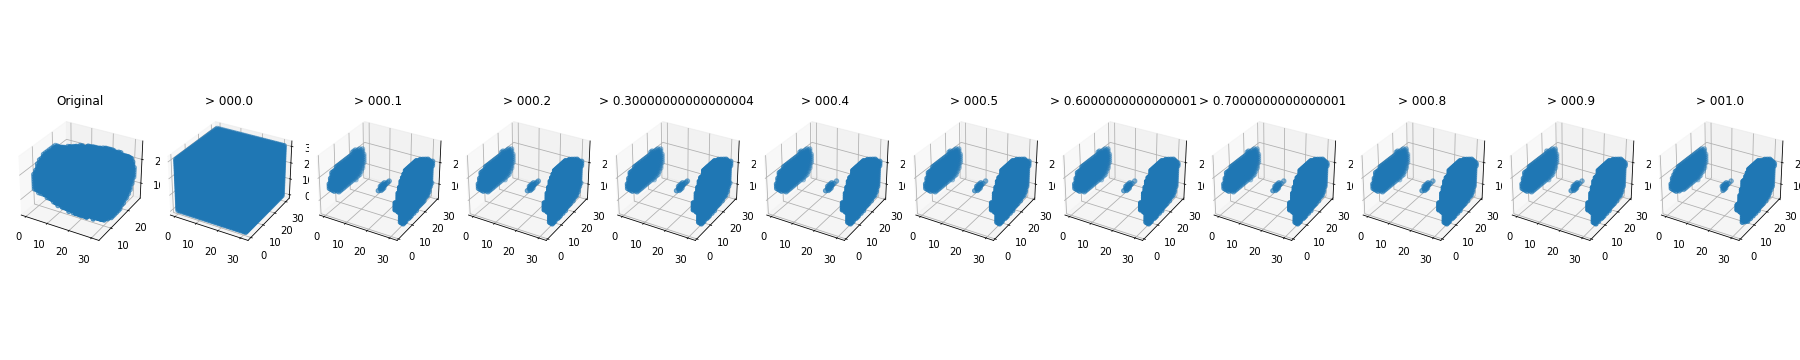
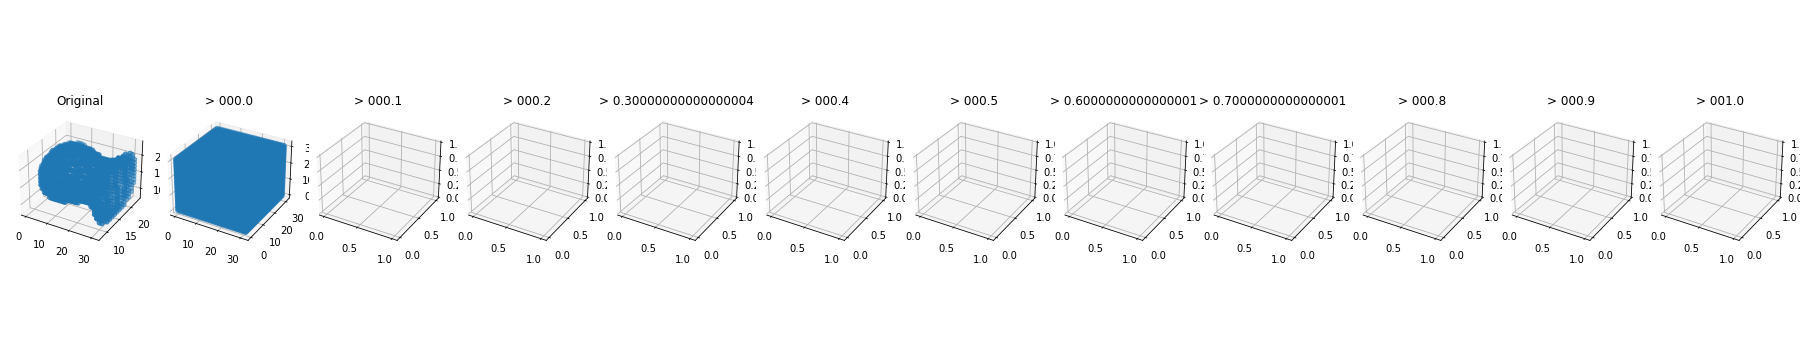
Still not fixed... damn

diff --git a/3d_autoencoder_cleanup.py b/3d_autoencoder_cleanup.py
@@ -123,7 +123,7 @@ def generate_img_of_decodings_expanded(encodings, decodings, thresholds=[.9, .95
     rows = 1
     fig = plt.figure(figsize=(25, 5))
     n = len(thresholds) + 1
-
+    encoding_res = len(encodings[0])
     ax = fig.add_subplot(rows, n, 1, projection='3d')
     elem1 = np.argwhere(encodings[0])
     ax.set_title("Original")
@@ -131,7 +131,10 @@ def generate_img_of_decodings_expanded(encodings, decodings, thresholds=[.9, .95
     for i, tresh in enumerate(thresholds):
         cnt = i + 1
         ax = fig.add_subplot(rows, n, cnt + 1, projection='3d')
-        ax.set_title(f"> {tresh:05}")
+        ax.set_title(f"> {tresh:05.5f}")
+        ax.set_xlim(0, encoding_res)
+        ax.set_ylim(0, encoding_res)
+        ax.set_zlim(0, encoding_res)
         elem2 = np.argwhere(decodings[0] >= tresh)
         ax.scatter(elem2[:, 0], elem2[:, 1], elem2[:, 2], cmap="Greys_r")
 
@@ -202,8 +205,6 @@ cut_point = .1
 x_train, x_test = train_test_split(data.astype(np.float), shuffle=True, test_size=.1)
 f"Training: {x_train.shape} | Test: {x_test.shape}"
 
-
-
 # %% [markdown]
 # ## The model building blocks
 # This is where the model starts. To step up the game, I used subclassing to modularized the model and make it seem cleaner.
@@ -211,11 +212,11 @@ f"Training: {x_train.shape} | Test: {x_test.shape}"
 # I was inspired by following resources
 # - https://stackoverflow.com/a/58526969/4162265
 # - https://www.tensorflow.org/guide/keras/custom_layers_and_models#putting_it_all_together_an_end-to-end_example
-# 
+#
 # I took most of the conceptual ideas from the paper that inspired this code:
 # [http://arxiv.org/abs/1608.04236](Generative and Discriminative Voxel Modeling with Convolutional Neural Networks) by Brock et. al.
 # Luckily he provides a quick run down in a [https://www.youtube.com/watch?v=LtpU1yBStlU](video)
-# I also took inspiration from his code on [https://github.com/ajbrock/Generative-and-Discriminative-Voxel-Modeling](Github) in order to understand and debug. 
+# I also took inspiration from his code on [https://github.com/ajbrock/Generative-and-Discriminative-Voxel-Modeling](Github) in order to understand and debug.
 # (But this is for rather advanced Python coders as you might not get everything immediately. The code is written in a framework I don't really know called Lasagne. It is based on Theano. So there was little copy pasting here possible.)
 #
 
@@ -226,6 +227,7 @@ f"Training: {x_train.shape} | Test: {x_test.shape}"
 # I might drop the dropout layer in the future as it seems to have fallen from grace.
 
 WITH_DROP = True
+
 
 class EncoderUnit(Layer):
     def __init__(self, num_filters, name="encoder_unit", **kwargs) -> None:
@@ -262,7 +264,7 @@ class DecoderUnit(Layer):
     def call(self, inputs, **kwargs):
         x = self.conv(inputs)
         if WITH_DROP:
-            x = self.drop(x)        
+            x = self.drop(x)
         x = self.norm(x)
         return x
 
@@ -290,8 +292,8 @@ class Sampling(Layer):
 # That's called "getting stuck in a local optimum". Pretty unfortunate, if that optimum is a very bad one.
 #
 # The solution is weighting correctly predicted cells that are empty less than hitting a filled cell.
-# Additionally, I decided to not take the mean of the sum, because this does not produce a large flow of loss back into the model. Or at least that was my intuition. 
-# The general design for the code was taken from [https://stackoverflow.com/questions/61799546/how-to-custom-losses-by-subclass-tf-keras-losses-loss-class-in-tensorflow2-x](here) 
+# Additionally, I decided to not take the mean of the sum, because this does not produce a large flow of loss back into the model. Or at least that was my intuition.
+# The general design for the code was taken from [https://stackoverflow.com/questions/61799546/how-to-custom-losses-by-subclass-tf-keras-losses-loss-class-in-tensorflow2-x](here)
 
 
 class WeightedBinaryCrossEntropy(tf.keras.losses.Loss):
@@ -303,17 +305,22 @@ class WeightedBinaryCrossEntropy(tf.keras.losses.Loss):
     reduction: Type of tf.keras.losses.Reduction to apply to loss.
     name: Name of the loss function.
     """
-    def __init__(self, penalty, reduction=tf.keras.losses.Reduction.AUTO, name='weighted_binary_crossentropy'):
+    def __init__(self,
+                 penalty,
+                 clip_margin=1e-3,
+                 reduction=tf.keras.losses.Reduction.AUTO,
+                 name='weighted_binary_crossentropy'):
         super().__init__(reduction=reduction, name=name)
         self.penalty = penalty
+        self.clip_margin = clip_margin
 
     def call(self, y_true, y_pred):
-        return WeightedBinaryCrossEntropy.wbce(y_true, y_pred, self.penalty)[0]
+        return WeightedBinaryCrossEntropy.wbce(y_true, y_pred, self.penalty, self.clip_margin)[0]
 
     @staticmethod
-    def wbce(y_true, y_pred, penalty):
+    def wbce(y_true, y_pred, penalty, clip_margin=1e-3):
         penalty *= 100
-        clipped_y_pred = WeightedBinaryCrossEntropy.clip_pred(y_pred, 1e-7, 1.0 - 1e-7)
+        clipped_y_pred = WeightedBinaryCrossEntropy.clip_pred(y_pred, clip_margin, 1.0 - clip_margin)
         binary_cross_entropy = -(penalty * y_true * tf.math.log(clipped_y_pred) + (100 - penalty) *
                                  (1.0 - y_true) * tf.math.log(1.0 - clipped_y_pred)) / 100.0
         loss = tf.reduce_sum(binary_cross_entropy)
@@ -331,7 +338,7 @@ class WeightedBinaryCrossEntropy(tf.keras.losses.Loss):
 # I don't think they are very comlicated to understand, given that I have abtracted the processing units away.
 
 ## %% [markdown]
-# What's important in the encoder is that I return the last layer which is flattend AND the previous layer which is unflattend. 
+# What's important in the encoder is that I return the last layer which is flattend AND the previous layer which is unflattend.
 # With this approach, I can bridge shapes onto the decoder.
 
 
@@ -429,27 +436,30 @@ class AutoEncoder(Model):
 ## %% [markdown]
 # I create a function that rescales the values in the data to a range that I see fit.
 # The reason is that Brock et al. found out that that a modification boosts the models performance significantly.
-# If you use tensorboard, you can view the output distributions of the predictions. 
-# They will shows you how the model either predicts one or another value in the decoding phase. 
+# If you use tensorboard, you can view the output distributions of the predictions.
+# They will shows you how the model either predicts one or another value in the decoding phase.
 # For more on this, read the paper. It is pretty easy to understand.
-#   
+#
+
 
 def _rebase(x1, x2, min_val, max_val):
     x1 = (x1 * (max_val - min_val)) + min_val
     x2 = (x2 * (max_val - min_val)) + min_val
     return x1, x2
 
+
 ## %% [markdown]
 # Hyperparams. This needs no explanation.
-penalty = .90
+penalty = .97
 learning_rate = 0.01
-comment = "refactored no dropout"
+comment = "fixed"
 lbound, ubound = -1, 2
-batch_size = 4
+batch_size = 5
 output_dim = 300
+clip_margin = 1e-3
 
 autoencoder = AutoEncoder(data_shape=data_shape, output_dim=output_dim, verbose=2)
-loss_fn = WeightedBinaryCrossEntropy(penalty=penalty)
+loss_fn = WeightedBinaryCrossEntropy(penalty=penalty, clip_margin=clip_margin)
 opt_cl = opt.SGD(learning_rate=learning_rate, nesterov=True, momentum=.9)
 opt_cl = opt.Adam(learning_rate=learning_rate)
 
@@ -461,6 +471,7 @@ x_test_mod, y_test_mod = _rebase(x_test, x_test, 0, 1)
 x_train_mod, y_train_mod = _rebase(x_train, x_train, lbound, ubound)
 x_test_mod, y_test_mod = _rebase(x_test, x_test, 0, 1)
 
+
 # %% [markdown]
 # Some minor stuff with regards to tensorboard. This code helped debugging my model.
 def construct_log_dir(elements=[]):
@@ -469,11 +480,12 @@ def construct_log_dir(elements=[]):
 
 
 elems = [
-    f"[{lbound:07.7f} & {ubound:07.7f}]",
-    f"[{penalty:05.5f}]",
-    f"[{learning_rate:07.7f}]",
-    f"[{batch_size:02d}]",
-    f"[{output_dim:03d}]",
+    f"bounds[{lbound:07.7f} & {ubound:07.7f}]",
+    f"penalty[{penalty:05.5f}]",
+    f"lr[{learning_rate:07.7f}]",
+    f"clip[{clip_margin:07.7f}]",
+    f"batch[{batch_size:02d}]",
+    f"dim[{output_dim:03d}]",
     f"{comment}" if comment else "NA",
 ]
 
@@ -562,7 +574,7 @@ image_log_callback = CustomCallback(validation_data, penalty=penalty)
 history = autoencoder.fit(
     x_train_mod,
     y_train_mod,
-    epochs=25,
+    epochs=100,
     batch_size=batch_size,
     shuffle=True,
     validation_data=validation_data,

diff --git a/3d_autoencoder.py b/3d_autoencoder.py
@@ -283,15 +283,17 @@ x_test_mod, y_test_mod = _rebase(x_test, x_test, 0, 1)
 
 
 def construct_log_dir(elements=[]):
-    log_dir = f"logs/{datetime.now().strftime('%H%M%S')}/" + " - ".join(elements)
+    log_dir = f"logs/{datetime.now().strftime('%m%d%H%M%S')}/" + " - ".join(elements)
     return log_dir
 
 
 elems = [
-    f"[{lbound:07.7f} & {ubound:07.7f}]",
-    f"[{penalty:05.5f}]",
-    f"[{learning_rate:07.7f}]",
-    f"[{batch_size:02d}]",
+    f"bounds[{lbound:07.7f} & {ubound:07.7f}]",
+    f"penalty[{penalty:05.5f}]",
+    f"lr[{learning_rate:07.7f}]",
+    # f"clip[{clip_margin:07.7f}]",
+    f"batch[{batch_size:02d}]",
+    # f"dim[{output_dim:03d}]",
     f"{comment}" if comment else "NA",
 ]
 
